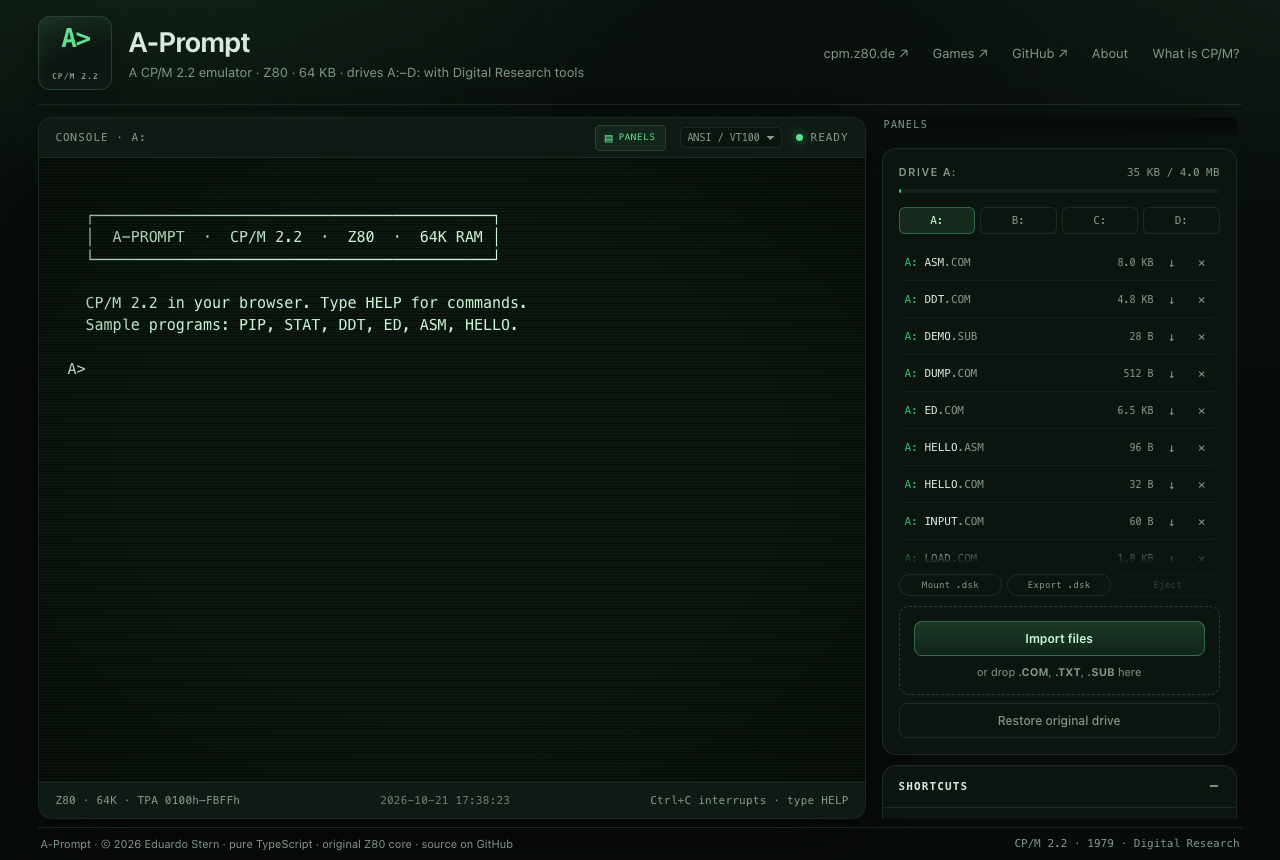
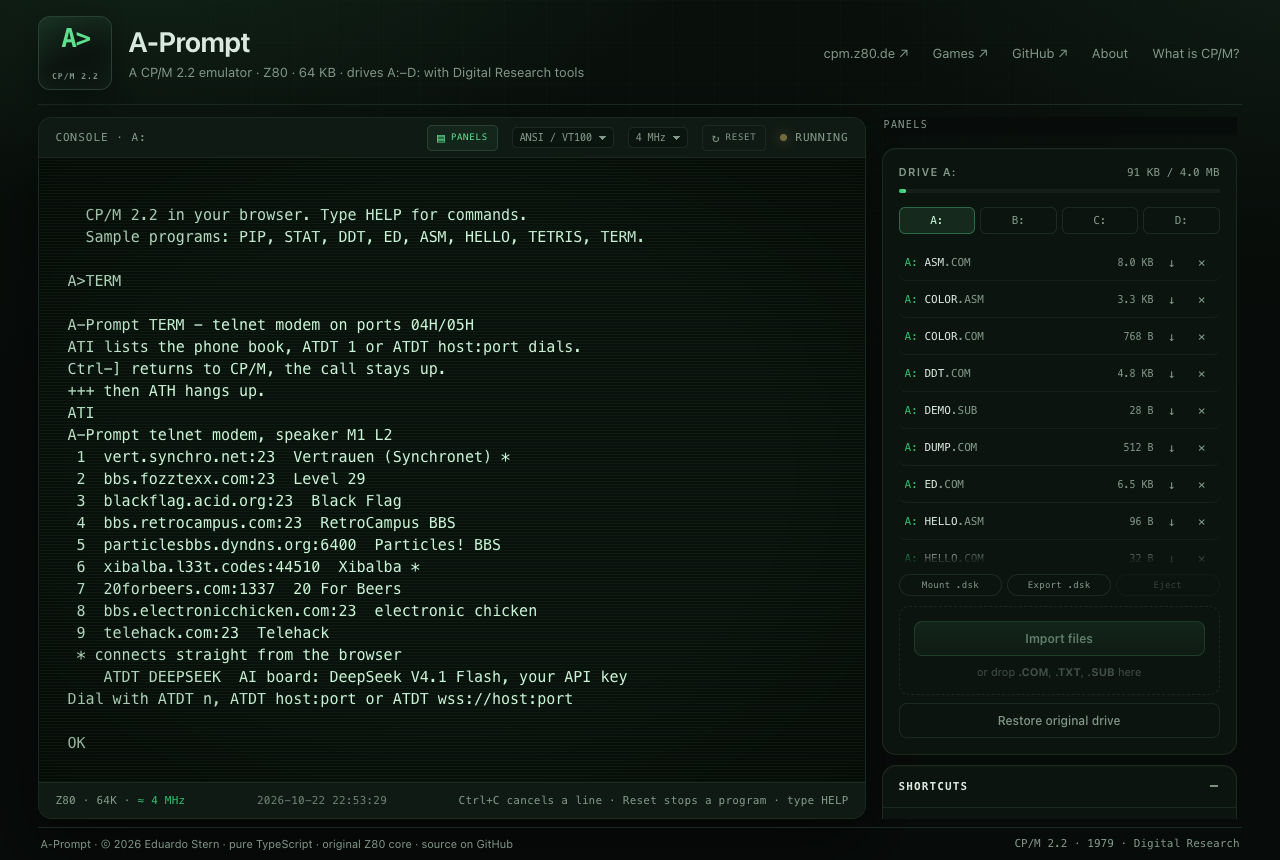
docs: new screenshot with the current UI and the BBS phone book
The old screenshot predated the MHz and Reset controls, the new banner
and the modem. The new one shows TERM listing the phone book (with the
boards reached straight from the browser and ATDT DEEPSEEK) at the same
1280x860 size.

diff --git a/README.md b/README.md
@@ -85,7 +85,7 @@ Zork, WordStar and MBASIC from your own archive.
 
 The name comes from CP/M's unmistakable `A>` prompt.
 
-![A-Prompt terminal](docs/screenshot.png)
+![TERM listing the modem's phone book of BBSes](docs/screenshot.png)
 
 ## Run
 
